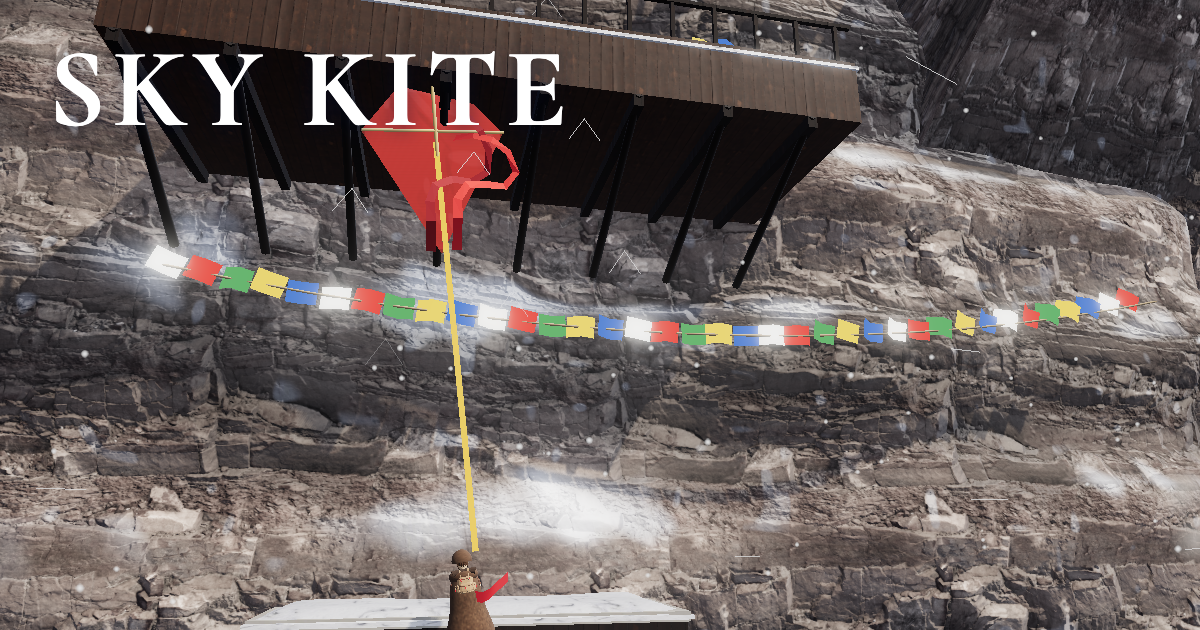
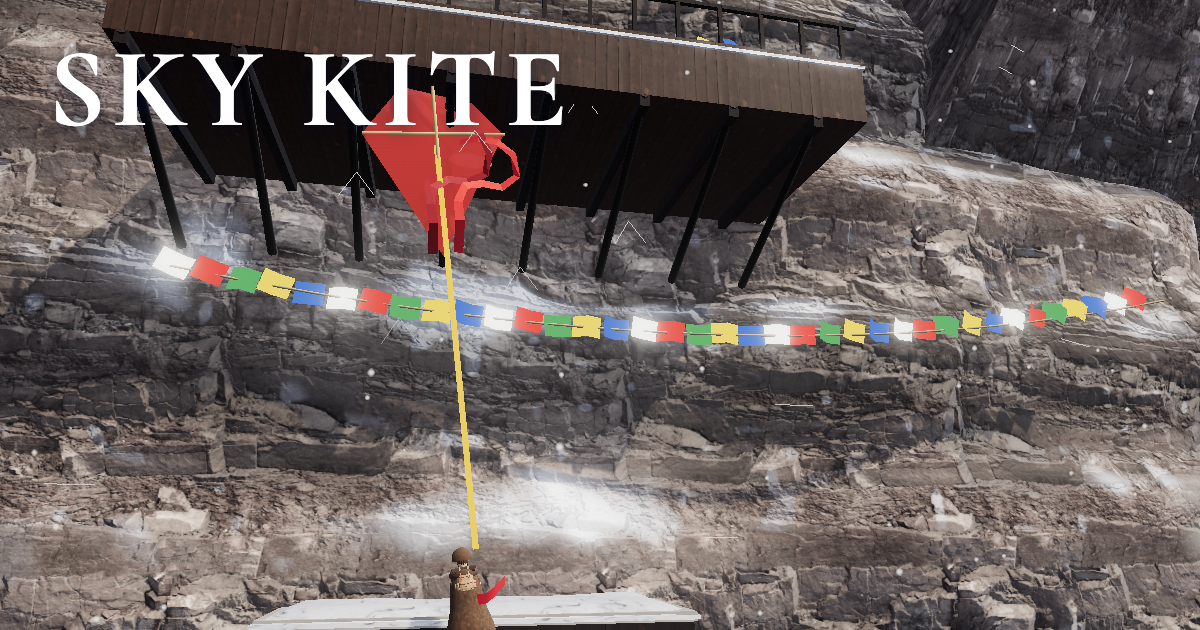
v5: 足場で止まっている時は糸を12mまで・風車の柱は見た目だけ・区間1の柱の間の上昇気流・頂の棚を広く・難しさの検査

diff --git a/index.html b/index.html
@@ -8,7 +8,7 @@
 <meta property="og:type" content="website">
 <meta property="og:title" content="SKY KITE">
 <meta property="og:description" content="大きな凧に引かれて岩山を登る。風を読んで糸を出し、巻いて、体を持ち上げる。落ちたら下の足場から。">
-<meta property="og:image" content="https://tom3games.github.io/sky-kite/og.png?v=4">
+<meta property="og:image" content="https://tom3games.github.io/sky-kite/og.png?v=5">
 <meta property="og:image:width" content="1200">
 <meta property="og:image:height" content="630">
 <meta property="og:url" content="https://tom3games.github.io/sky-kite/">
@@ -18,7 +18,7 @@
 <link rel="preconnect" href="https://fonts.googleapis.com">
 <link rel="preconnect" href="https://fonts.gstatic.com" crossorigin>
 <link href="https://fonts.googleapis.com/css2?family=Cormorant+Garamond:wght@600;700&family=Zen+Kaku+Gothic+New:wght@500;700&display=swap" rel="stylesheet">
-<link rel="stylesheet" href="style.css?v=4">
+<link rel="stylesheet" href="style.css?v=5">
 <script type="importmap">{ "imports": { "three": "./vendor/three.module.js" } }</script>
 </head>
 <body>
@@ -75,6 +75,6 @@
   </div>
 </section>
 
-<script type="module" src="js/game.js?v=4"></script>
+<script type="module" src="js/game.js?v=5"></script>
 </body>
 </html>

diff --git a/js/view.js b/js/view.js
@@ -3,7 +3,7 @@
 import * as THREE from 'three'
 import { HDRLoader } from '../vendor/jsm/loaders/HDRLoader.js'
 import { GLTFLoader } from '../vendor/jsm/loaders/GLTFLoader.js'
-import { wind, stormOn, pulse, K, kitePos } from './sim.js?v=4'
+import { wind, stormOn, pulse, K, kitePos } from './sim.js?v=5'
 
 // B の絵から抜いた色（固定）
 export const PAL = {
@@ -412,6 +412,7 @@ export async function makeView(C, el, opt = {}) {
     put(new THREE.SphereGeometry(0.22, 8, 6), M.gold, cx, b.y1 + 1.75, zb + dep / 2)
   }
   for (const s of C.snags) {
+    if (s.type === 'pole') { put(cyl(s.r * 0.8, s.r * 1.2, s.h, 8), DW, s.x, s.y, 0.4); continue }
     if (s.type !== 'post') continue
     if (s.pole) { put(cyl(s.r * 0.8, s.r * 1.2, s.h, 8), DW, s.x, s.y, 0.4); continue }
     if (s.what === 'tree') {

diff --git a/js/sim.js b/js/sim.js
@@ -219,7 +219,8 @@ function sub(C, s, inp, h) {
     if (s.stun <= 0) {
       if (inp.reel > 0) { if (s.L > K.Lmin) { r = K.reelIn; s.L = Math.max(K.Lmin, s.L - r * h) } }
       // 離すと糸が出る。ただし足場で何も押していない時は出さない（休める）
-      else if (s.L < K.Lmax && !(s.ground && Math.abs(inp.steer || 0) < 0.3)) { r = -K.reelOut; s.L = Math.min(K.Lmax, s.L + K.reelOut * h) }
+      // 離すと糸が出る（足場で止まっている時は 12m まで）
+      else if (s.L < (s.ground && Math.abs(inp.steer || 0) < 0.3 ? Math.max(12, Math.min(s.L, K.Lmax)) : K.Lmax)) { r = -K.reelOut; s.L = Math.min(K.Lmax, s.L + K.reelOut * h) }
     }
     s.reel = r
     const kx = hx + ux * s.L, ky = hy + uy * s.L

diff --git a/js/game.js b/js/game.js
@@ -1,9 +1,9 @@
-import { COURSE as C } from './course.js?v=4'
-import { newState, step, respawn, DT, K, angDiff } from './sim.js?v=4'
-import { makeView } from './view.js?v=4'
-import { makeTutorial } from './tutorial.js?v=4'
-import { Snd } from './sfx.js?v=4'
-import { wind } from './sim.js?v=4'
+import { COURSE as C } from './course.js?v=5'
+import { newState, step, respawn, DT, K, angDiff } from './sim.js?v=5'
+import { makeView } from './view.js?v=5'
+import { makeTutorial } from './tutorial.js?v=5'
+import { Snd } from './sfx.js?v=5'
+import { wind } from './sim.js?v=5'
 
 const $ = id => document.getElementById(id)
 const qs = new URLSearchParams(location.search)
